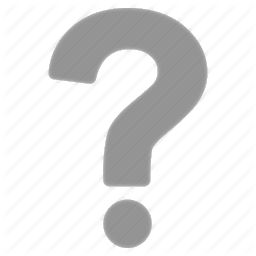
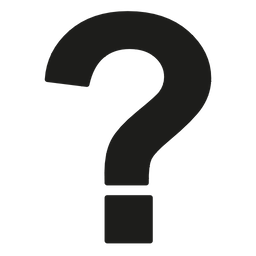
Modify question mark style

Changed region(s): [[0.1562, 0.0312, 0.8438, 0.9688]]

diff --git a/web-server/src/pages/model-view/model-view.js b/web-server/src/pages/model-view/model-view.js
@@ -6,8 +6,6 @@ import NotificationBanner from "../../components/notification-banner/notificatio
 import {store} from "../../mock-data";
 import {Flex, FlexItem} from "layout-components";
 import TabButtonBar from "../../components/tab-button-bar";
-import 'markdown-it';
-import Markdown from 'react-markdownit';
 import styled from "styled-components";
 import { Charts, ChartContainer, ChartRow, YAxis, LineChart} from "react-timeseries-charts";
 import { TimeSeries, TimeRange } from "pondjs";
@@ -25,8 +23,10 @@ import "slick-carousel/slick/slick.css";
 import "slick-carousel/slick/slick-theme.css";
 import ReactDisqusThread from 'react-disqus-thread';
 import {Button, Dropdown, NavItem} from 'react-materialize'
-import { FacebookButton, FacebookCount, TwitterCount } from "react-social";
 import NotificationSystem from 'react-notification-system';
+import 'markdown-it';
+import Markdown from 'react-markdownit';
+
 
 const StyledModelLayout = styled(Flex)`
     .model-snippet {
@@ -160,6 +160,10 @@ const StyledModelLayout = styled(Flex)`
         height: 80%;
     }
 
+    .dz-preview.dz-processing.dz-error.dz-complete.dz-image-preview:hover {
+        
+    }
+
     .dz-image {
         width: 100% !important;
         height: 100% !important;
@@ -168,6 +172,20 @@ const StyledModelLayout = styled(Flex)`
     .dz-image img {
         width: 100%;
         height: 100%;
+    }
+
+    .question-mark {
+        height: 300px !important;
+        width: 300px !important;
+        border-radius: 5px;
+        border: 2px dashed #C7C7C7;
+    }
+
+    .question-mark img {
+        opacity: 0.1;
+        margin: auto, auto, auto, auto;
+        max-width: 100%;
+        max-height: 100%;
     }
 `;
 
@@ -486,8 +504,8 @@ class ModelView extends Component {
                                             <div className="col m6">
                                                 <ImageUploader uploadEventHandlers={this.uploadEventHandlers}></ImageUploader>
                                             </div>
-                                            <div className="col m6" style={{textAlign: "center"}}>
-                                                <img id="demo-output" style={{width: "auto", height: "300px", borderRadius: "5px", border: "2px dashed #C7C7C7"}} src="/images/question-256.png"></img>
+                                            <div className="col m6 question-mark" style={{textAlign: "center"}} >
+                                                <img id="demo-output" src="/images/question-256.png"></img>
                                             </div>
                                         </div>
                                         <div className="row">
@@ -504,7 +522,7 @@ class ModelView extends Component {
                                     </span>
                                 </Tab>
                                 <Tab title="API">
-                                    <Markdown className="markdown-body white-text" style={{height: "200px", overflow: "scroll", marginBottom: "20px"}}>
+                                    <Markdown className="markdown-body" style={{height: "200px", overflow: "scroll", marginBottom: "20px"}}>
                                     {`   
                                         \`\`\`python
                                         import requests
@@ -536,6 +554,7 @@ class ModelView extends Component {
 
                                     `}
                                     </Markdown>   
+
                                 </Tab>
                                 <Tab title="Input Type">
                                     <table className="white-text" style={{width: "300px", marginLeft: "150px"}}>

diff --git a/web-server/public/index.html b/web-server/public/index.html
@@ -49,9 +49,6 @@
     <script src="//cdnjs.cloudflare.com/ajax/libs/highlight.js/9.12.0/highlight.min.js"></script>
     <script>hljs.initHighlightingOnLoad();</script>
 
-    <link rel="stylesheet" type="text/css" href="https://cdnjs.cloudflare.com/ajax/libs/slick-carousel/1.6.0/slick.min.css" />
-    <link rel="stylesheet" type="text/css" href="https://cdnjs.cloudflare.com/ajax/libs/slick-carousel/1.6.0/slick-theme.min.css" />
-
     <title>Moxel</title>
 
     <meta charset="UTF-8">
